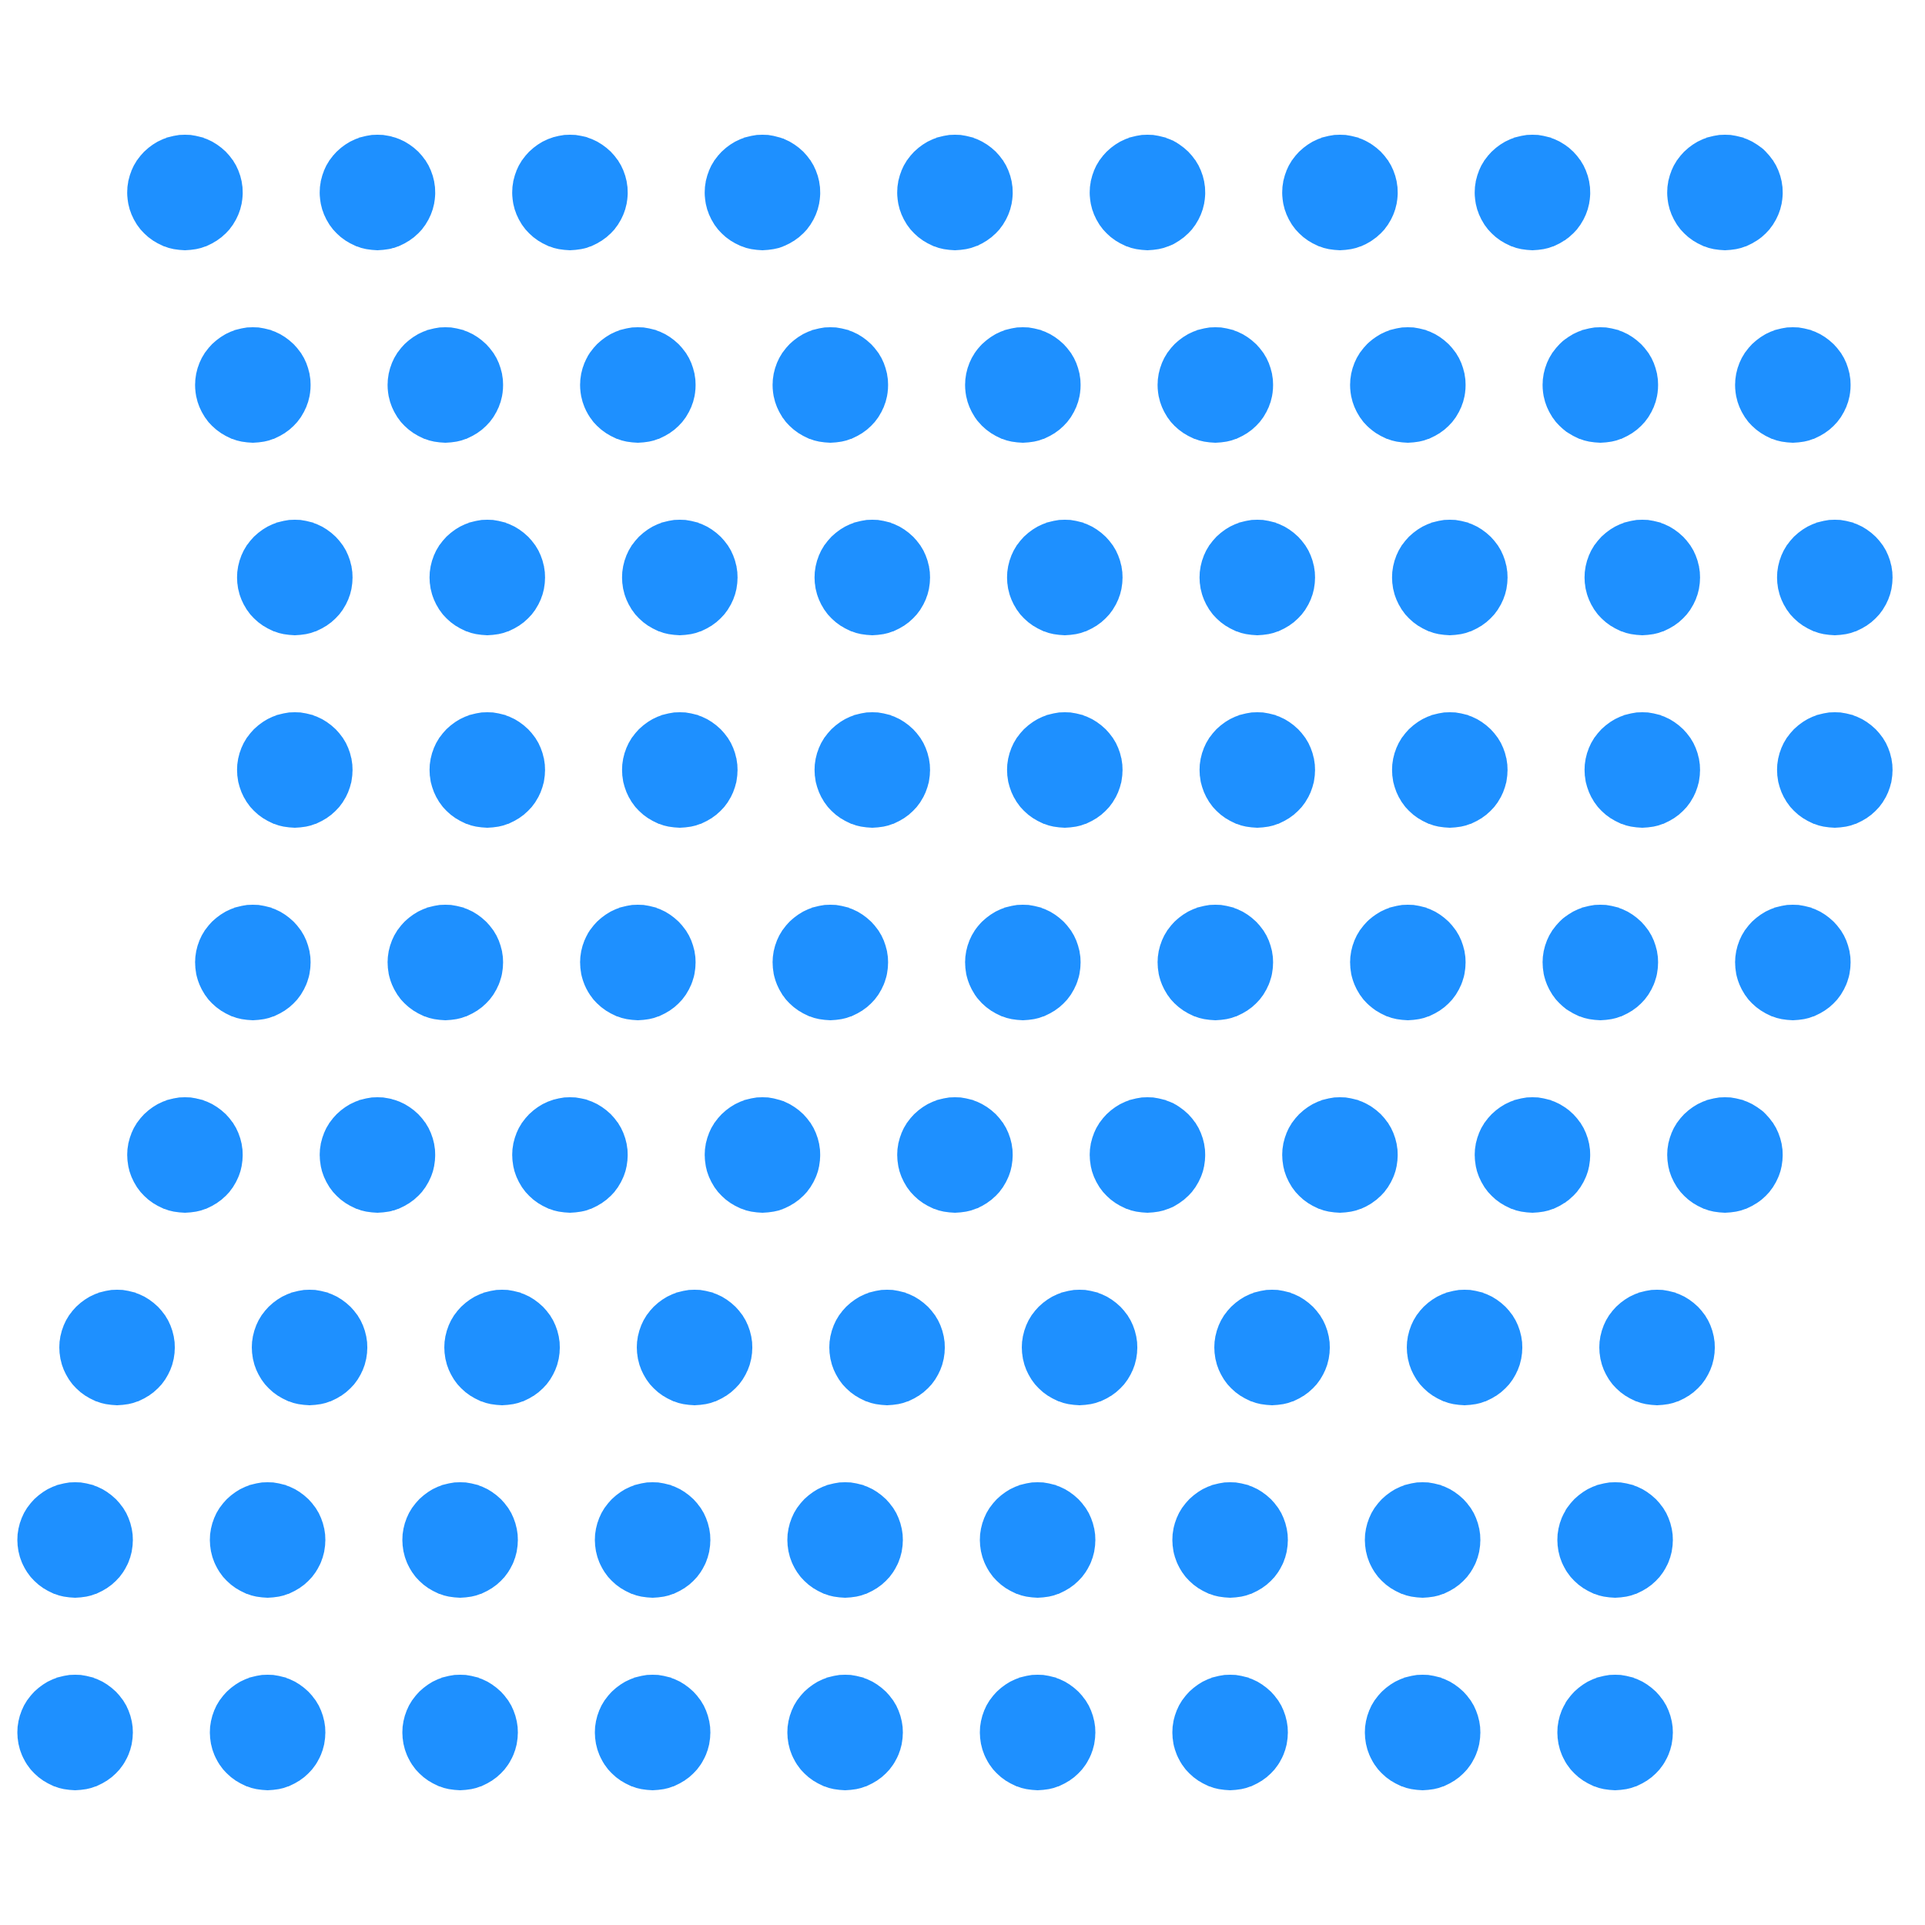
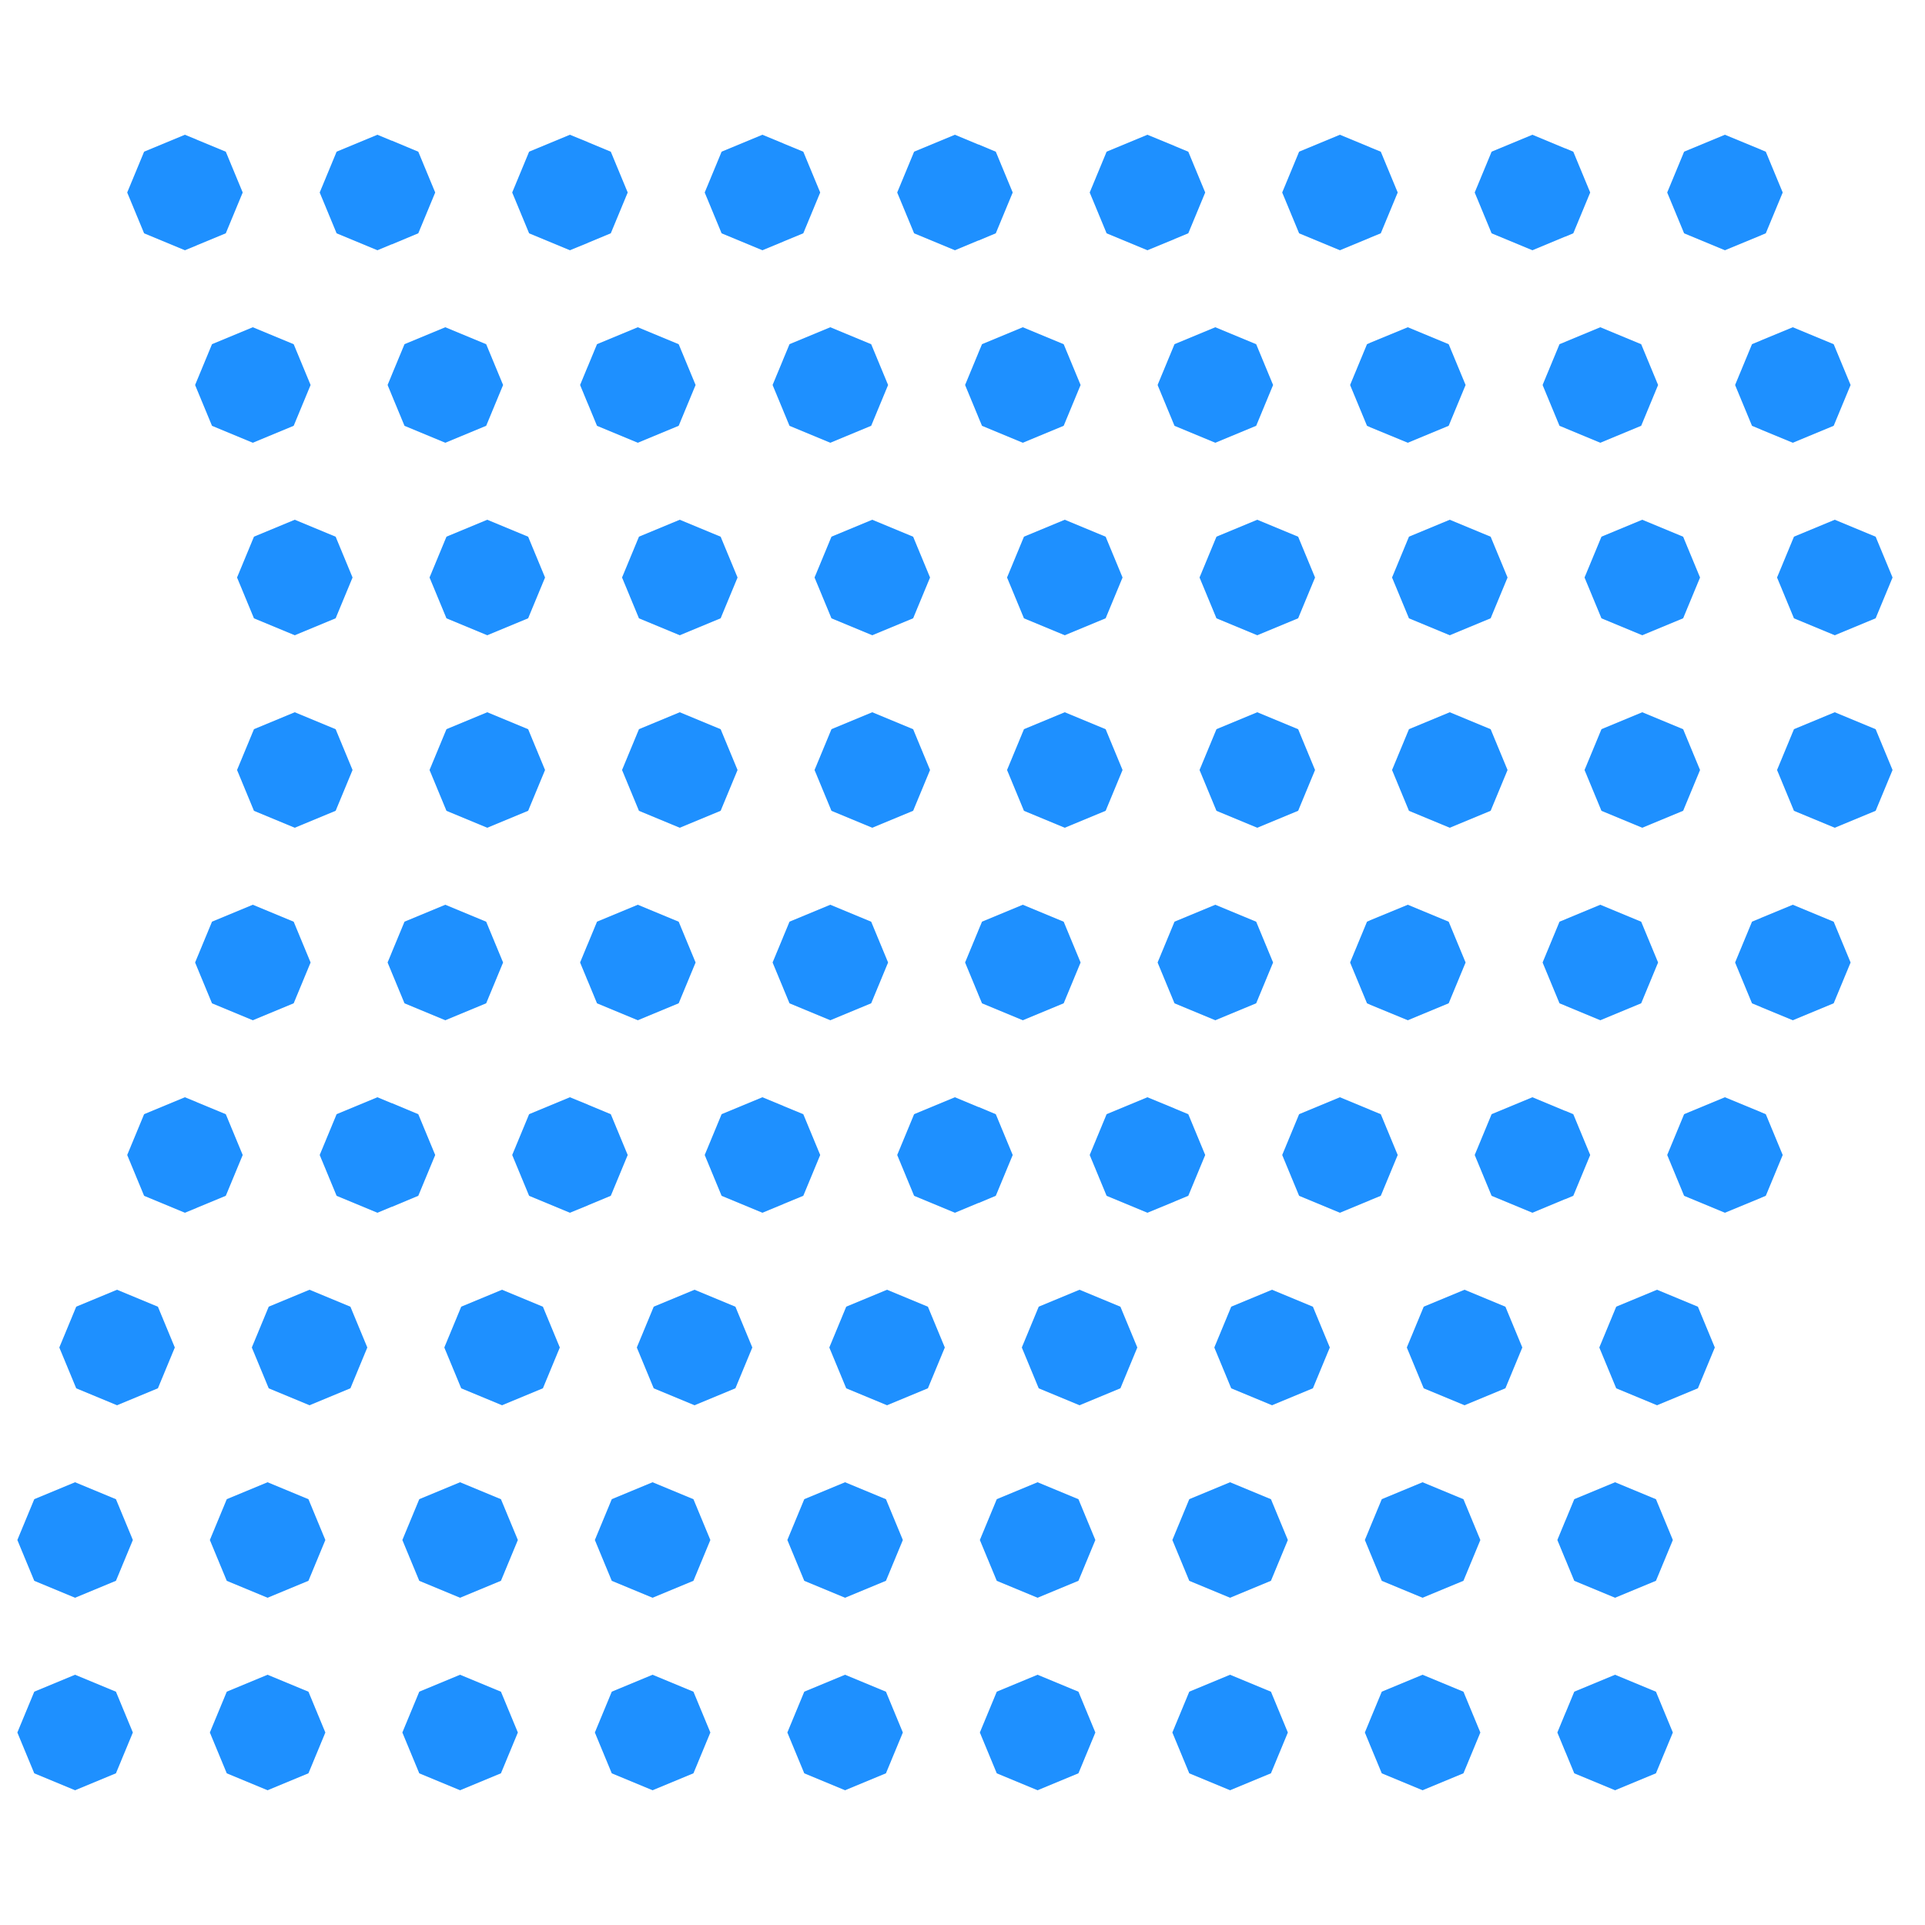
Example 12

diff --git a/example_0012.py b/example_0012.py
@@ -1,0 +1,34 @@
+"""
+OCTA toolbox example stimuli
+Example stimulus 12
+created by Eline Van Geert
+"""
+
+# Load necessary objects and functions from OCTA
+from octa.Stimulus import Grid
+from octa.Positions import Positions
+from octa.patterns import GridPattern
+from octa.shapes import Ellipse
+
+# Define stimulus name
+stimname = "example_0012"
+
+# Define stimulus
+stim = Grid(n_rows = 9, n_cols = 9, size = (250,250))
+
+# Define element positions
+stim.positions = Positions.CreateSineGrid(n_rows = 9, n_cols = 9, row_spacing = 25, col_spacing = 25,
+                                          A = 15, f = .1, axis = "y")
+
+# Add bounding box sizes for the elements
+stim.boundingboxes = GridPattern.RepeatAcrossElements( [ (15,15) ] )
+
+# Add shapes for the elements
+# stim.shapes = GridPattern.RepeatAcrossElements( [ Ellipse ] )
+
+# Save stimulus
+stim.Show()
+stim.SaveSVG(stimname, folder = "svg")
+stim.SaveJSON(stimname, folder = "json")
+stim.SavePNG(stimname, folder = "png")
+stim.SavePNG(stimname, scale = 10, folder = "png10")
